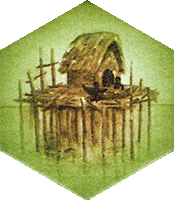
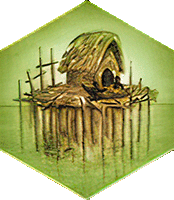
colorblind support fixes

diff --git a/games/kaivai-ui/src/lib/components/Table.svelte b/games/kaivai-ui/src/lib/components/Table.svelte
@@ -41,81 +41,86 @@
     })
 </script>
 
-<!-- Full Height and Width with 8px padding-->
-<div class="p-2 w-full h-full flex flex-row justify-between items-start bg-[#f5e397]">
-    <!--  Panels have screen minus the height of navbar plus padding -->
-    <div
-        class="flex flex-col space-y-2 shrink-0 grow-0 w-[320px] min-w-[320px] max-w-[90vw] sm:h-[calc(100vh-84px)] h-[calc(100vh-116px)]"
-    >
+<div class="flex w-screen overflow-auto bg-[#f5e397]">
+    <!-- Full Height and Width with 8px padding-->
+    <div class="p-2 w-full h-full flex flex-row justify-between items-start">
+        <!--  Panels have screen minus the height of navbar plus padding -->
         <div
-            class="shrink-0 grow-0 p-2 rounded-lg border-2 border-[#634a11] bg-transparent h-[42px]"
+            class="flex flex-col space-y-2 shrink-0 grow-0 w-[320px] min-w-[320px] max-w-[90vw] sm:h-[calc(100vh-84px)] h-[calc(100vh-116px)]"
         >
-            <HistoryControls enabledColor="text-[#634a11]" disabledColor="text-[#cabb7a]" />
-        </div>
-        <Tabs tabStyle="pill" contentClass="p-0 bg-transparent h-full overflow-scroll rounded-lg">
-            <TabItem
-                open
-                defaultClass="uppercase kaivai-font"
-                activeClasses={activeTabClasses}
-                inactiveClasses={inactiveTabClasses}
+            <div
+                class="shrink-0 grow-0 p-2 rounded-lg border-2 border-[#634a11] bg-transparent h-[42px]"
             >
-                <div slot="title" class="flex items-center gap-2">
-                    <UserCircleSolid size="md" />
-                    Players
-                </div>
+                <HistoryControls enabledColor="text-[#634a11]" disabledColor="text-[#cabb7a]" />
+            </div>
+            <Tabs
+                tabStyle="pill"
+                contentClass="p-0 bg-transparent h-full overflow-scroll rounded-lg"
+            >
+                <TabItem
+                    open
+                    defaultClass="uppercase kaivai-font"
+                    activeClasses={activeTabClasses}
+                    inactiveClasses={inactiveTabClasses}
+                >
+                    <div slot="title" class="flex items-center gap-2">
+                        <UserCircleSolid size="md" />
+                        Players
+                    </div>
 
-                <PlayersPanel />
-            </TabItem>
-            <TabItem
-                defaultClass="uppercase kaivai-font"
-                activeClasses={activeTabClasses}
-                inactiveClasses={inactiveTabClasses}
-            >
-                <div slot="title" class="flex items-center gap-2">
-                    <ClockSolid size="md" />
-                    History
-                </div>
-                <History />
-            </TabItem>
-        </Tabs>
-    </div>
-    <div
-        class="ms-2 pe-2 sm:pe-0 shrink grow sm:min-w-[320px] min-w-[90vw] sm:h-[calc(100vh-84px)] h-[calc(100vh-116px)] flex flex-col"
-    >
-        <!--  Top part is not allowed to shrink -->
-        <div class="shrink-0">
-            <Phase />
-            {#if gameSession.gameState.result}
-                <EndOfGamePanel />
-            {:else if gameSession.mode === GameSessionMode.History}
-                <LastHistoryDescription />
-            {:else if gameSession.mode === GameSessionMode.Play}
-                <LastHistoryDescription />
-                {#if gameSession.isMyTurn}
-                    <ActionPanel />
-                {:else}
-                    <WaitingPanel />
-                {/if}
-            {/if}
+                    <PlayersPanel />
+                </TabItem>
+                <TabItem
+                    defaultClass="uppercase kaivai-font"
+                    activeClasses={activeTabClasses}
+                    inactiveClasses={inactiveTabClasses}
+                >
+                    <div slot="title" class="flex items-center gap-2">
+                        <ClockSolid size="md" />
+                        History
+                    </div>
+                    <History />
+                </TabItem>
+            </Tabs>
         </div>
-        <!--  Bottom part fills the remaining space, but hides overflow to keep it's height fixed.
-              This allows the wrapper to scale to its bounds regardless of its content size-->
-        <div class="grow-0 overflow-hidden" style="flex:1;">
-            <ScalingWrapper justify={'center'} controls={'bottom-left'}>
-                <div class="w-fit h-fit">
-                    {#if showBidBoard}
-                        <BidBoard />
+        <div
+            class="ms-2 pe-2 sm:pe-0 shrink grow sm:min-w-[320px] min-w-[90vw] sm:h-[calc(100vh-84px)] h-[calc(100vh-116px)] flex flex-col"
+        >
+            <!--  Top part is not allowed to shrink -->
+            <div class="shrink-0">
+                <Phase />
+                {#if gameSession.gameState.result}
+                    <EndOfGamePanel />
+                {:else if gameSession.mode === GameSessionMode.History}
+                    <LastHistoryDescription />
+                {:else if gameSession.mode === GameSessionMode.Play}
+                    <LastHistoryDescription />
+                    {#if gameSession.isMyTurn}
+                        <ActionPanel />
+                    {:else}
+                        <WaitingPanel />
                     {/if}
-                    <Board />
-                </div>
-            </ScalingWrapper>
+                {/if}
+            </div>
+            <!--  Bottom part fills the remaining space, but hides overflow to keep it's height fixed.
+              This allows the wrapper to scale to its bounds regardless of its content size-->
+            <div class="grow-0 overflow-hidden" style="flex:1;">
+                <ScalingWrapper justify={'center'} controls={'bottom-left'}>
+                    <div class="w-fit h-fit">
+                        {#if showBidBoard}
+                            <BidBoard />
+                        {/if}
+                        <Board />
+                    </div>
+                </ScalingWrapper>
+            </div>
         </div>
+        {#if gameSession.showDebug}
+            <div class="flex flex-col space-y-2 shrink-0 grow-0 w-[400px]">
+                <AdminPanel />
+            </div>
+        {/if}
     </div>
-    {#if gameSession.showDebug}
-        <div class="flex flex-col space-y-2 shrink-0 grow-0 w-[400px]">
-            <AdminPanel />
-        </div>
-    {/if}
 </div>
 
 <style global>

diff --git a/games/kaivai-ui/src/lib/model/KaivaiGameSession.svelte.ts b/games/kaivai-ui/src/lib/model/KaivaiGameSession.svelte.ts
@@ -1,5 +1,9 @@
-import { GameSession } from '@tabletop/frontend-components'
-import { uiBgColorForPlayer } from '$lib/utils/playerColors'
+import {
+    GameSession,
+    getColorBlindBgColor,
+    getColorBlindColor
+} from '@tabletop/frontend-components'
+import { uiBgColorForPlayer, uiColorForPlayer } from '$lib/utils/playerColors'
 import yellowHut from '$lib/images/yellowhut.png'
 import yellowHut2 from '$lib/images/yellowhut2.png'
 import blueHut from '$lib/images/bluehut.png'
@@ -8,7 +12,14 @@ import greenHut from '$lib/images/greenhut.png'
 import greenHut2 from '$lib/images/greenhut2.png'
 import redHut from '$lib/images/redhut.png'
 import redHut2 from '$lib/images/redhut2.png'
-
+import yellowHutCb from '$lib/images/yellowhut-cb.png'
+import yellowHut2Cb from '$lib/images/yellowhut2-cb.png'
+import blueHutCb from '$lib/images/bluehut-cb.png'
+import blueHut2Cb from '$lib/images/bluehut2-cb.png'
+import greenHutCb from '$lib/images/greenhut-cb.png'
+import greenHut2Cb from '$lib/images/greenhut2-cb.png'
+import redHutCb from '$lib/images/redhut-cb.png'
+import redHut2Cb from '$lib/images/redhut2-cb.png'
 import {
     ActionType,
     HutType,
@@ -226,7 +237,13 @@ export class KaivaiGameSession extends GameSession {
     })
 
     getPlayerBgColor(playerId?: string) {
-        return uiBgColorForPlayer(this.getPlayerColor(playerId)) ?? 'bg-gray-500'
+        const playerColor = this.getPlayerColor(playerId)
+        return this.colorBlind ? getColorBlindBgColor(playerColor) : uiBgColorForPlayer(playerColor)
+    }
+
+    getPlayerUiColor(playerId?: string) {
+        const playerColor = this.getPlayerColor(playerId)
+        return this.colorBlind ? getColorBlindColor(playerColor) : uiColorForPlayer(playerColor)
     }
 
     getPlayerTextColor(playerId?: string) {
@@ -247,26 +264,26 @@ export class KaivaiGameSession extends GameSession {
             case HutType.Meeting:
                 switch (color) {
                     case PlayerColor.Yellow:
-                        return yellowHut2
+                        return this.colorBlind ? yellowHut2Cb : yellowHut2
                     case PlayerColor.Blue:
-                        return blueHut2
+                        return this.colorBlind ? blueHut2Cb : blueHut2
                     case PlayerColor.Green:
-                        return greenHut2
+                        return this.colorBlind ? greenHut2Cb : greenHut2
                     case PlayerColor.Red:
-                        return redHut2
+                        return this.colorBlind ? redHut2Cb : redHut2
                 }
                 break
             case HutType.BoatBuilding:
             case HutType.Fishing:
                 switch (color) {
                     case PlayerColor.Yellow:
-                        return yellowHut
+                        return this.colorBlind ? yellowHutCb : yellowHut
                     case PlayerColor.Blue:
-                        return blueHut
+                        return this.colorBlind ? blueHutCb : blueHut
                     case PlayerColor.Green:
-                        return greenHut
+                        return this.colorBlind ? greenHutCb : greenHut
                     case PlayerColor.Red:
-                        return redHut
+                        return this.colorBlind ? redHutCb : redHut
                 }
                 break
         }

diff --git a/games/fresh-fish-ui/src/lib/components/Cell.svelte b/games/fresh-fish-ui/src/lib/components/Cell.svelte
@@ -7,8 +7,7 @@
         HydratedPlaceStall,
         HydratedPlaceDisk,
         HydratedPlaceMarket,
-        isDiskCell,
-        isStallCell
+        isDiskCell
     } from '@tabletop/fresh-fish'
     import emptyTileImg from '$lib/images/tile-empty.png'
     import roadImg from '$lib/images/tile-road.png'
@@ -48,14 +47,6 @@
                 return 'none'
         }
     })
-
-    let playerColor = $derived(
-        isStallCell(cell) ? gameSession.getPlayerColor(cell.playerId) : 'transparent'
-    )
-
-    let uiPlayerColor = $derived(
-        isDiskCell(cell) ? gameSession.getPlayerUiColor(cell.playerId) : 'transparent'
-    )
 
     let interacting = $derived(
         gameSession.isMyTurn &&
@@ -183,13 +174,19 @@
             viewBox="0 0 30 30"
             xmlns="http://www.w3.org/2000/svg"
         >
-            <circle fill={uiPlayerColor} stroke="#333333" stroke-width=".5" cx="15" cy="15" r="6"
+            <circle
+                fill={gameSession.getPlayerUiColor(cell.playerId)}
+                stroke="#333333"
+                stroke-width=".5"
+                cx="15"
+                cy="15"
+                r="6"
             ></circle>
         </svg>
     {:else if cell.type === CellType.Truck}
         <TruckTile goodsType={cell.goodsType} />
     {:else if cell.type === CellType.Stall}
-        <StallTile {playerColor} goodsType={cell.goodsType} />
+        <StallTile playerId={cell.playerId} goodsType={cell.goodsType} />
     {:else if cell.type === CellType.Market}
         <MarketTile />
     {/if}

diff --git a/games/fresh-fish-ui/src/lib/components/ActionPanel.svelte b/games/fresh-fish-ui/src/lib/components/ActionPanel.svelte
@@ -1,5 +1,5 @@
 <script lang="ts">
-    import { Button, Range } from 'flowbite-svelte'
+    import { Button } from 'flowbite-svelte'
     import { getContext } from 'svelte'
     import { ActionType } from '@tabletop/fresh-fish'
     import type { FreshFishGameSession } from '$lib/stores/FreshFishGameSession.svelte'
@@ -87,11 +87,7 @@
     class="mb-2 rounded-lg bg-gray-300 p-2 text-center flex flex-row flex-wrap justify-center items-center"
 >
     {#if gameSession.chosenAction === ActionType.PlaceBid}
-        <StallTile
-            size={90}
-            playerColor={''}
-            goodsType={gameSession.hydratedState.getChosenStallType()}
-        />
+        <StallTile size={90} goodsType={gameSession.hydratedState.getChosenStallType()} />
     {/if}
     <div class="flex flex-col justify-center items-center mx-8">
         <h1 class="text-lg">{instructions}</h1>
@@ -129,7 +125,7 @@
             {#if gameSession.chosenAction === ActionType.PlaceStall}
                 <div class="my-2">
                     <StallTile
-                        playerColor={gameSession.getPlayerColor()}
+                        playerId={gameSession.myPlayer?.id}
                         goodsType={gameSession.hydratedState.getChosenStallType()}
                     />
                 </div>

diff --git a/games/fresh-fish-ui/src/lib/components/StallTile.svelte b/games/fresh-fish-ui/src/lib/components/StallTile.svelte
@@ -7,18 +7,22 @@
     import fishStallDarkImg from '$lib/images/fish-stall-dark.png'
     import gelatoStallDarkImg from '$lib/images/gelato-stall-dark.png'
     import sodaStallDarkImg from '$lib/images/soda-stall-dark.png'
-    import { uiBgColorForPlayer } from '$lib/utils/playerColors'
     import { GoodsType } from '@tabletop/fresh-fish'
     import { PlayerColor } from '@tabletop/common'
+    import { getContext } from 'svelte'
+    import type { FreshFishGameSession } from '$lib/stores/FreshFishGameSession.svelte'
 
     let {
         size = 100,
-        playerColor = '',
+        playerId,
         goodsType
-    }: { size?: number; playerColor: string; goodsType?: GoodsType } = $props()
+    }: { size?: number; playerId?: string; goodsType?: GoodsType } = $props()
+
+    let gameSession = getContext('gameSession') as FreshFishGameSession
 
     let sizePx = $derived(`${size}px`)
-    let stallBgColor = $derived(uiBgColorForPlayer(playerColor))
+    let stallBgColor = $derived(playerId ? gameSession.getPlayerBgColor(playerId) : 'bg-[#555555]')
+    let playerColor = $derived(gameSession.getPlayerColor(playerId))
     let stallImg = $derived.by(() => {
         switch (goodsType) {
             case GoodsType.Cheese:

diff --git a/games/kaivai-ui/src/lib/components/Cell.svelte b/games/kaivai-ui/src/lib/components/Cell.svelte
@@ -82,11 +82,11 @@
 
     let playerColor = $derived.by(() => {
         if (isBoatCell(cell) && cell.boat) {
-            return uiColorForPlayer(gameSession.getPlayerColor(cell.boat.owner))
+            return gameSession.getPlayerUiColor(cell.boat.owner)
         } else if (isFishingCell(cell)) {
-            return uiColorForPlayer(gameSession.getPlayerColor(cell.owner))
+            return gameSession.getPlayerUiColor(cell.owner)
         } else {
-            return uiColorForPlayer(gameSession.getPlayerColor(gameSession.myPlayer?.id))
+            return gameSession.getPlayerUiColor(gameSession.myPlayer?.id)
         }
     })
 

diff --git a/games/bridges-of-shangri-la-ui/src/lib/model/BridgesGameSession.svelte.ts b/games/bridges-of-shangri-la-ui/src/lib/model/BridgesGameSession.svelte.ts
@@ -17,11 +17,7 @@ import firekeeper from '$lib/images/firekeeper.png'
 import priest from '$lib/images/priest.png'
 import yetiwhisperer from '$lib/images/yetiwhisperer.png'
 import astrologer from '$lib/images/astrologer.png'
-import {
-    GameSession,
-    getColorBlindBgColor,
-    getColorBlindColor
-} from '@tabletop/frontend-components'
+import { GameSession, getColorBlindBgColor } from '@tabletop/frontend-components'
 import { uiBgColorForPlayer } from '$lib/utils/playerColors'
 
 export class BridgesGameSession extends GameSession {

diff --git a/games/bridges-of-shangri-la-ui/src/lib/components/PlayerState.svelte b/games/bridges-of-shangri-la-ui/src/lib/components/PlayerState.svelte
@@ -1,7 +1,6 @@
 <script lang="ts">
     import { type Player } from '@tabletop/common'
     import { BridgesPlayerState, MasterType } from '@tabletop/bridges-of-shangri-la'
-    import { uiBgColorForPlayer } from '$lib/utils/playerColors'
     import { getContext } from 'svelte'
     import type { BridgesGameSession } from '$lib/model/BridgesGameSession.svelte'
 
